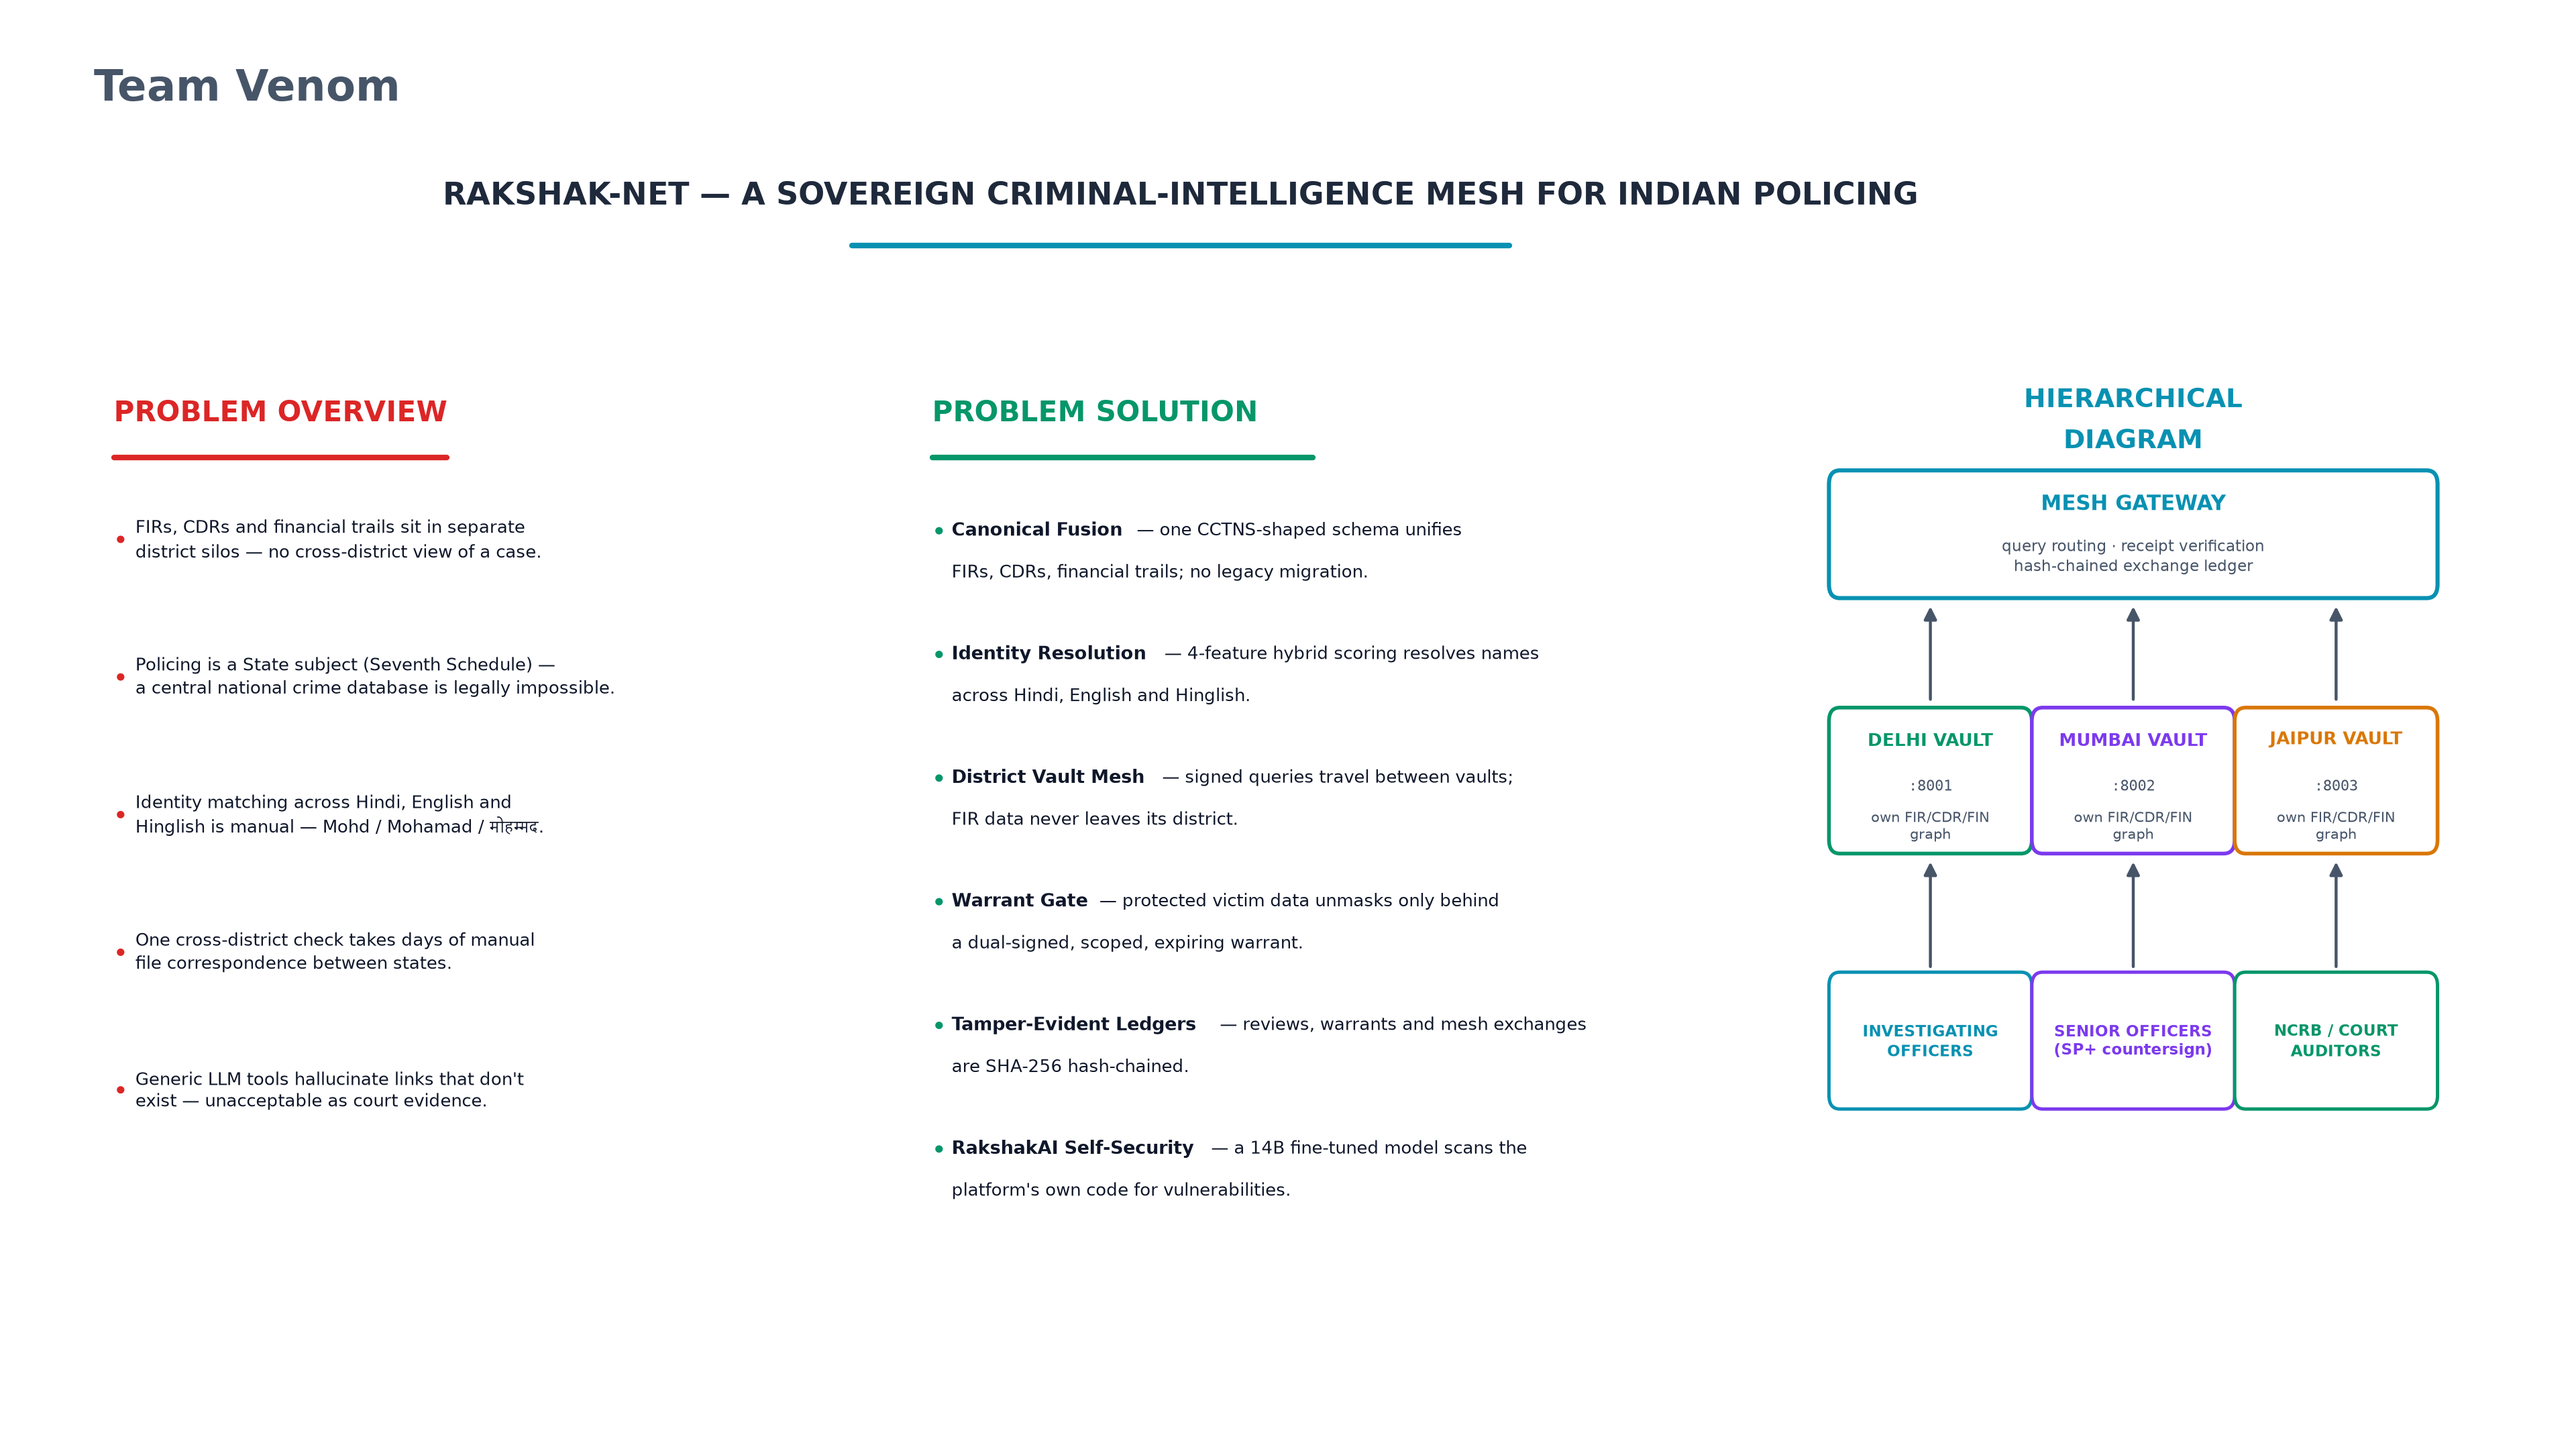
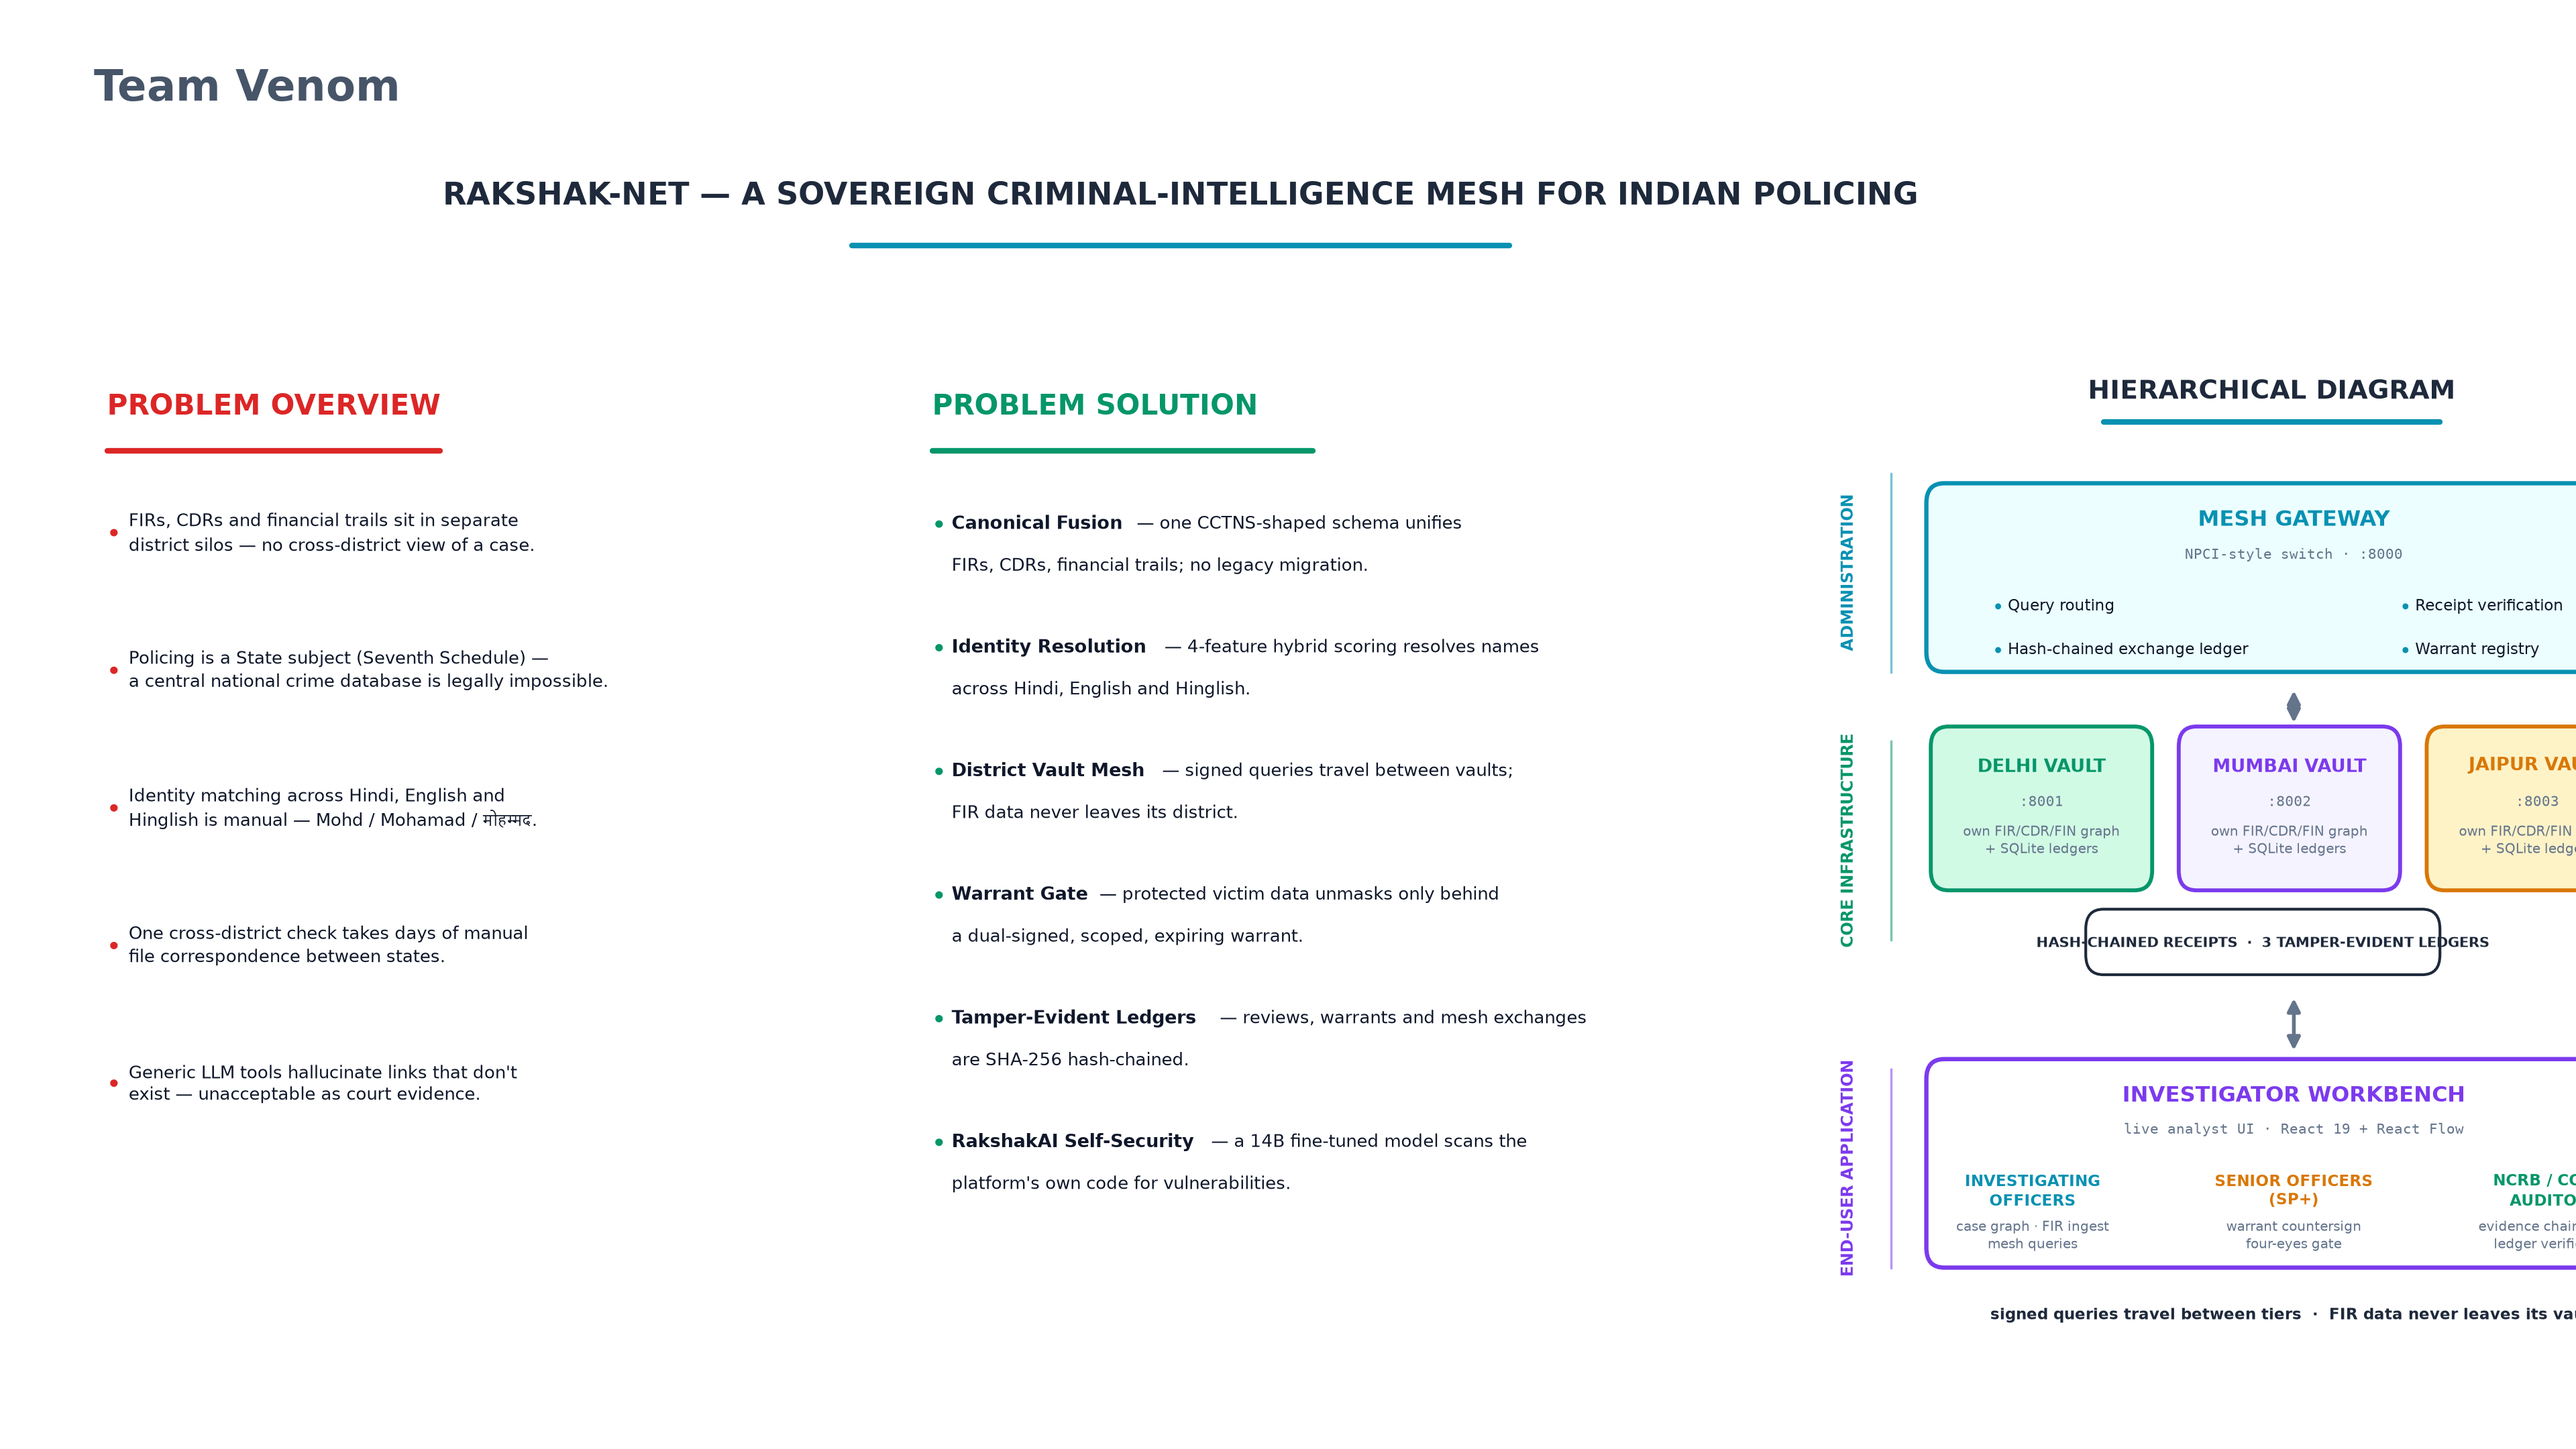
Add winner-exact VERTICAL 3-tier hierarchical diagram (slide 2 right column)
- hierarchy-final.png: ADMINISTRATION (Mesh Gateway) / CORE INFRASTRUCTURE
  (3 district vaults + hash-chained ledgers) / END-USER APPLICATION
  (Investigator Workbench: IOs, SP+ officers, NCRB/court auditors),
  rotated tier labels + two-way arrows, transparent light-mode
- Napkin hierarchy attempt kept as hierarchy-napkin.* (unused: watermark)
- slide2-mockup-winner.png rebuilt with final hierarchy

diff --git a/ppt-assets/slide2/generate_hierarchy_final.py b/ppt-assets/slide2/generate_hierarchy_final.py
@@ -1,0 +1,129 @@
+#!/usr/bin/env python3
+"""
+RAKSHAK-NET — Winner-exact VERTICAL 3-tier HIERARCHICAL DIAGRAM (slide 2, right).
+
+Mirrors the SIH-winning deck: rotated tier labels on the left +
+  ADMINISTRATION (top):     MESH GATEWAY capsule
+  CORE INFRASTRUCTURE:      3 district vault boxes + ledger chip
+  END-USER APPLICATION:     INVESTIGATOR WORKBENCH capsule
+with vertical two-way arrows between tiers.
+
+Transparent, light-mode. Run:
+  backend/.venv/bin/python ppt-assets/slide2/generate_hierarchy_final.py
+"""
+from pathlib import Path
+
+import matplotlib
+matplotlib.use("Agg")
+import matplotlib.pyplot as plt
+from matplotlib.patches import FancyBboxPatch, FancyArrowPatch
+
+OUT = Path(__file__).parent
+
+INK   = "#0f172a"
+SUB   = "#64748b"
+NAVY  = "#1e293b"
+CYAN  = "#0891b2"
+CYANL = "#ecfeff"
+EMER  = "#059669"
+EMERL = "#d1fae5"
+PURPLE = "#7c3aed"
+PURLL = "#f5f3ff"
+AMBER = "#d97706"
+AMBL  = "#fef3c7"
+LINE  = "#94a3b8"
+
+plt.rcParams.update({"font.family": ["DejaVu Sans"], "text.color": INK})
+
+
+def run():
+    fig = plt.figure(figsize=(6.6, 7.4))
+    ax = fig.add_axes([0, 0, 1, 1])
+    ax.set_xlim(0, 100)
+    ax.set_ylim(0, 100)
+    ax.axis("off")
+
+    def box(x, y, w, h, fc="#ffffff", ec=LINE, lw=1.6, r=2.0):
+        ax.add_patch(FancyBboxPatch((x, y), w, h,
+                     boxstyle=f"round,pad=0,rounding_size={r}", fc=fc, ec=ec, lw=lw))
+
+    def txt(x, y, s, size=10, color=INK, weight="normal", ha="center",
+            va="center", mono=False, spacing=1.4, rot=0):
+        fam = ["DejaVu Sans Mono"] if mono else ["DejaVu Sans"]
+        ax.text(x, y, s, fontsize=size, color=color, fontweight=weight,
+                ha=ha, va=va, family=fam, linespacing=spacing, rotation=rot)
+
+    def darrow(x, y1, y2, color=SUB):
+        ax.add_patch(FancyArrowPatch((x, y1), (x, y2), arrowstyle="<|-|>",
+                     mutation_scale=14, color=color, lw=2.0))
+
+    # ---------------- title ----------------
+    txt(52, 96.5, "HIERARCHICAL DIAGRAM", size=14, weight="bold", color=NAVY)
+    ax.plot([33, 71], [93.2, 93.2], color=CYAN, lw=3, solid_capstyle="round")
+
+    # ---------------- tier labels (rotated, far left) ----------------
+    for label, y, c in [("ADMINISTRATION", 78, CYAN),
+                        ("CORE INFRASTRUCTURE", 51, EMER),
+                        ("END-USER APPLICATION", 18, PURPLE)]:
+        txt(4.0, y, label, size=8.8, color=c, weight="bold", rot=90)
+        ax.plot([9.0, 9.0], [y - 10, y + 10], color=c, lw=1.2, alpha=0.55)
+
+    # ============ TIER 1 · MESH GATEWAY (administration, top) ============
+    box(13, 68, 83, 19, fc=CYANL, ec=CYAN, lw=2.3)
+    txt(54.5, 83.5, "MESH GATEWAY", size=11.5, weight="bold", color=CYAN)
+    txt(54.5, 79.8, "NPCI-style switch · :8000", size=7.6, color=SUB, mono=True)
+    feats = [("Query routing", 31), ("Receipt verification", 77),
+             ("Hash-chained exchange ledger", 31), ("Warrant registry", 77)]
+    fy = 74.6
+    for i, (f, fx) in enumerate(feats):
+        y = fy if i < 2 else fy - 4.4
+        txt(fx - 10.5, y, "•", size=9, color=CYAN, weight="bold", ha="left")
+        txt(fx - 8.8, y, f, size=8.2, ha="left")
+
+    # vertical arrows tier1 -> tier2
+    darrow(54.5, 66.5, 62.5)
+
+    # ============ TIER 2 · DISTRICT VAULTS (core infrastructure) =========
+    vaults = [
+        (13.5, "DELHI VAULT",  ":8001", EMER, EMERL),
+        (41.5, "MUMBAI VAULT", ":8002", PURPLE, PURLL),
+        (69.5, "JAIPUR VAULT", ":8003", AMBER, AMBL),
+    ]
+    for x, name, port, c, fl in vaults:
+        box(x, 46, 25, 16.5, fc=fl, ec=c, lw=2.1)
+        txt(x + 12.5, 58.6, name, size=9.6, weight="bold", color=c)
+        txt(x + 12.5, 55.0, port, size=7.6, color=SUB, mono=True)
+        txt(x + 12.5, 51.0, "own FIR/CDR/FIN graph\n+ SQLite ledgers", size=7.2,
+            color=SUB, spacing=1.3)
+    # ledger chip
+    box(31, 37.5, 40, 6.6, fc="#ffffff", ec=NAVY, lw=1.5)
+    txt(51, 40.8, "HASH-CHAINED RECEIPTS  ·  3 TAMPER-EVIDENT LEDGERS", size=7.4,
+        weight="bold", color=NAVY)
+
+    # vertical arrows tier2 -> tier3
+    darrow(54.5, 29.5, 35.5)
+
+    # ============ TIER 3 · INVESTIGATOR WORKBENCH (end-user, bottom) =====
+    box(13, 8, 83, 21, fc="#ffffff", ec=PURPLE, lw=2.3)
+    txt(54.5, 25.5, "INVESTIGATOR WORKBENCH", size=11.5, weight="bold", color=PURPLE)
+    txt(54.5, 21.9, "live analyst UI · React 19 + React Flow", size=7.6, color=SUB, mono=True)
+    users = [
+        (25, "INVESTIGATING\nOFFICERS", "case graph · FIR ingest\nmesh queries", CYAN),
+        (54.5, "SENIOR OFFICERS\n(SP+)", "warrant countersign\nfour-eyes gate", AMBER),
+        (84, "NCRB / COURT\nAUDITORS", "evidence chain reports\nledger verification", EMER),
+    ]
+    for ux, name, sub, c in users:
+        txt(ux, 15.8, name, size=8.4, weight="bold", color=c, spacing=1.25)
+        txt(ux, 11.2, sub, size=7.2, color=SUB, spacing=1.3)
+
+    # ---------------- bottom caption ----------------
+    txt(54.5, 3.2, "signed queries travel between tiers  ·  FIR data never leaves its vault",
+        size=8.4, weight="bold", color=NAVY)
+
+    fig.savefig(OUT / "hierarchy-final.png", dpi=200, transparent=True)
+    plt.close(fig)
+    print("  done hierarchy-final.png")
+
+
+if __name__ == "__main__":
+    run()
